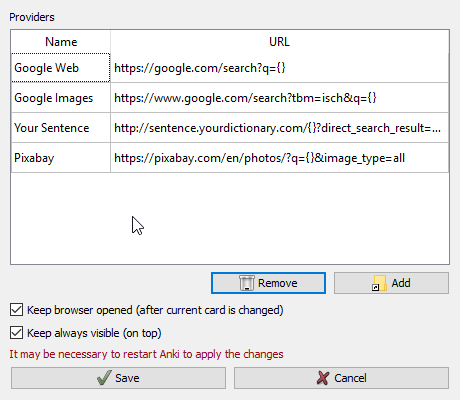
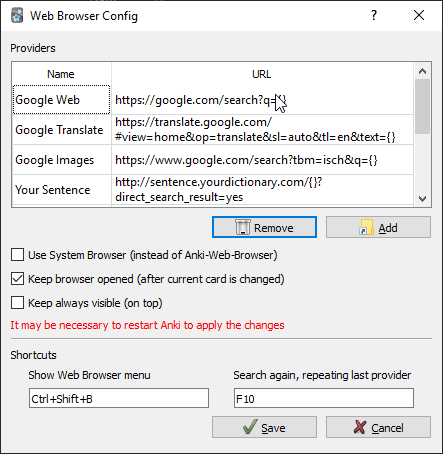
web-browser : finishing v1.2

Changed region(s): [[0.0, 0.0, 1.0, 1.0], [0.9097, 0.0, 0.9684, 0.06], [0.8217, 0.0, 0.851, 0.03]]

diff --git a/anki-web-browser/src/config.py b/anki-web-browser/src/config.py
@@ -18,7 +18,7 @@ from PyQt5.QtWidgets import QDialog
 from PyQt5.Qt import QIcon
 
 currentLocation = os.path.dirname(os.path.realpath(__file__))
-CONFIG_FILE = 'meta.json'
+CONFIG_FILE = 'config.json'
 
 # ---------------------------------- Model ------------------------------
 
@@ -71,16 +71,21 @@ class ConfigService:
     def load(self, createIfNotExists = True):
         Feedback.log('[INFO] Trying to read config file in {}'.format(currentLocation + '/' + CONFIG_FILE))
         try:
-            with open(currentLocation + '/' + CONFIG_FILE) as f:
-                obj = json.load(f)
-                Feedback.log(obj)
-                conf = ConfigHolder(**obj)
+            conf = self._readFileToObj()
         except:
             conf = False        
 
         if not conf and createIfNotExists:
             conf = self._createConfiguration()
         self._config = conf
+        return conf
+
+    def _readFileToObj(self):
+        with open(currentLocation + '/' + CONFIG_FILE) as f:
+            obj = json.load(f)
+            Feedback.log(obj)
+            conf = ConfigHolder(**obj)
+
         return conf
 
 
@@ -304,8 +309,7 @@ class ConfigViewAdapter(Ui_ConfigView):
         self.setupUi(self.window)
 
         self.verticalLayWidget.setFixedSize(480, 432)
-        # self.verticalLayWidget.setGeometry(QDialog.geometry())
-        self.verticalLayout.setContentsMargins(10, 10, 10, 10)        # modif
+        self.verticalLayout.setContentsMargins(10, 10, 10, 10)
 
         self.browserInfo.setVisible(self.cbSystemBrowser.isChecked()) #keep
 

diff --git a/anki-web-browser/src/browser.py b/anki-web-browser/src/browser.py
@@ -199,6 +199,7 @@ class AwBrowser(QDialog):
         self._web.setHtml(WELCOME_PAGE)
         self._itAddress.setText('about:blank')
         self.show()
+        self.raise_()
 
 # ------------------------------------ Menu ---------------------------------------
 

diff --git a/anki-web-browser/src/core.py b/anki-web-browser/src/core.py
@@ -8,7 +8,7 @@
 
 
 class Label:
-    CARD_MENU = 'Search in &Web'
+    CARD_MENU = 'Search on &Web'
     BROWSER_ASSIGN_TO = 'Assign to field:'
 
 

diff --git a/anki-web-browser/README.md b/anki-web-browser/README.md
@@ -24,21 +24,24 @@ The config **Always on top** is intuitive. It means that if enabled, when the *w
 
 The config **Use System Browser** disabled the embedded web browser. With this the addons invokes the system web browser instead. Both the provider and the queried term will be used likewise.  
 
-![Config View](doc/anki-webb-config.png)
+There are 2 **shortcuts** available, which are customizable:
 
-> This printscreen still haven't included the *Use System Browser* option.  
+* Show Web Browser menu: It's the same as right click, but it shows the Anki Web Browser only menu 
+* Search again, repeating last provider: Skip the *Select a provider* part (See more below)
+
+![Config View](doc/anki-webb-config.png)
 
 ## Using
 
-The functions of this addons are accessed through the context menu (either *right click* on mouse or *right menu key* on the keyboard).  
+The functions of this addons are accessed through the context menu (either *right click* on mouse or *right menu key* on the keyboard) or using shortcuts.  
 
 ### Search selected text
 
 While studying or editing a given card:  
 
 * Select a word or sentence
-* Right click
-* *Search in Web*
+* Right click (or use the shortcut)
+* *Search on Web*
 * Select the desired provider
 
 Then a new window with the *web browser* will be opened, if it isn't opened yet.  
@@ -46,6 +49,15 @@ Then a new window with the *web browser* will be opened, if it isn't opened yet.
 ![Web Browser on reviewer](doc/anki-webb-review.gif)
 
 This feature is similar to another Anki addon. The difference is that in this one the user can use it with several sites and (the main advantage) you don't need to shift to your Internet browser and back to Anki again.  
+
+#### Query a new word with same provider
+
+> From version 1.2+
+
+If the user have already used this addon in the current Anki session, this action opens up the web browser without asking to choose a provider.  
+It's going to use the same as the last query. 
+
+Conversely, if it's the first query in the current session, the menu will be shown.
 
 ### Get data directly from the web browser
 
@@ -61,11 +73,16 @@ After the look something up with the previous steps (above), on the *web browser
 * Choose one of them
 
 This way, the text or image will be appended to the selected field.  
-Even the image! (It's downloaded and imported into the collection automatically)
+Even the image! (It's downloaded and imported into the collection automatically) (Check the restriction below)  
 
 This feature makes it really simple and fast to get some information from the Internet and build or improve your Anki's collection.  
 
 > This feature works only using the embedded web browser. If you use the system browser, it's not possible to get data automatically
+
+## Limitation
+
+The image downloading supports only URLs finished with image suffix (like png, jpg)...
+This addon uses Anki engine to perform that action, and Anki imposes that restriction.  
 
 ## Bugs / Suggestions / more...
 

diff --git a/anki-web-browser/RELEASE_NOTES.md b/anki-web-browser/RELEASE_NOTES.md
@@ -11,3 +11,12 @@
 
 * Issues #5, #8 and #9
 * Option to use the system web browser
+
+**1.2** | 31/05
+
+* Improve the feedback
+  * Shows message when the importing action is not available
+  * Related issue #18
+* Add shortcuts
+  * Show web browser menu
+  * Search again with same provider (skip menu)
